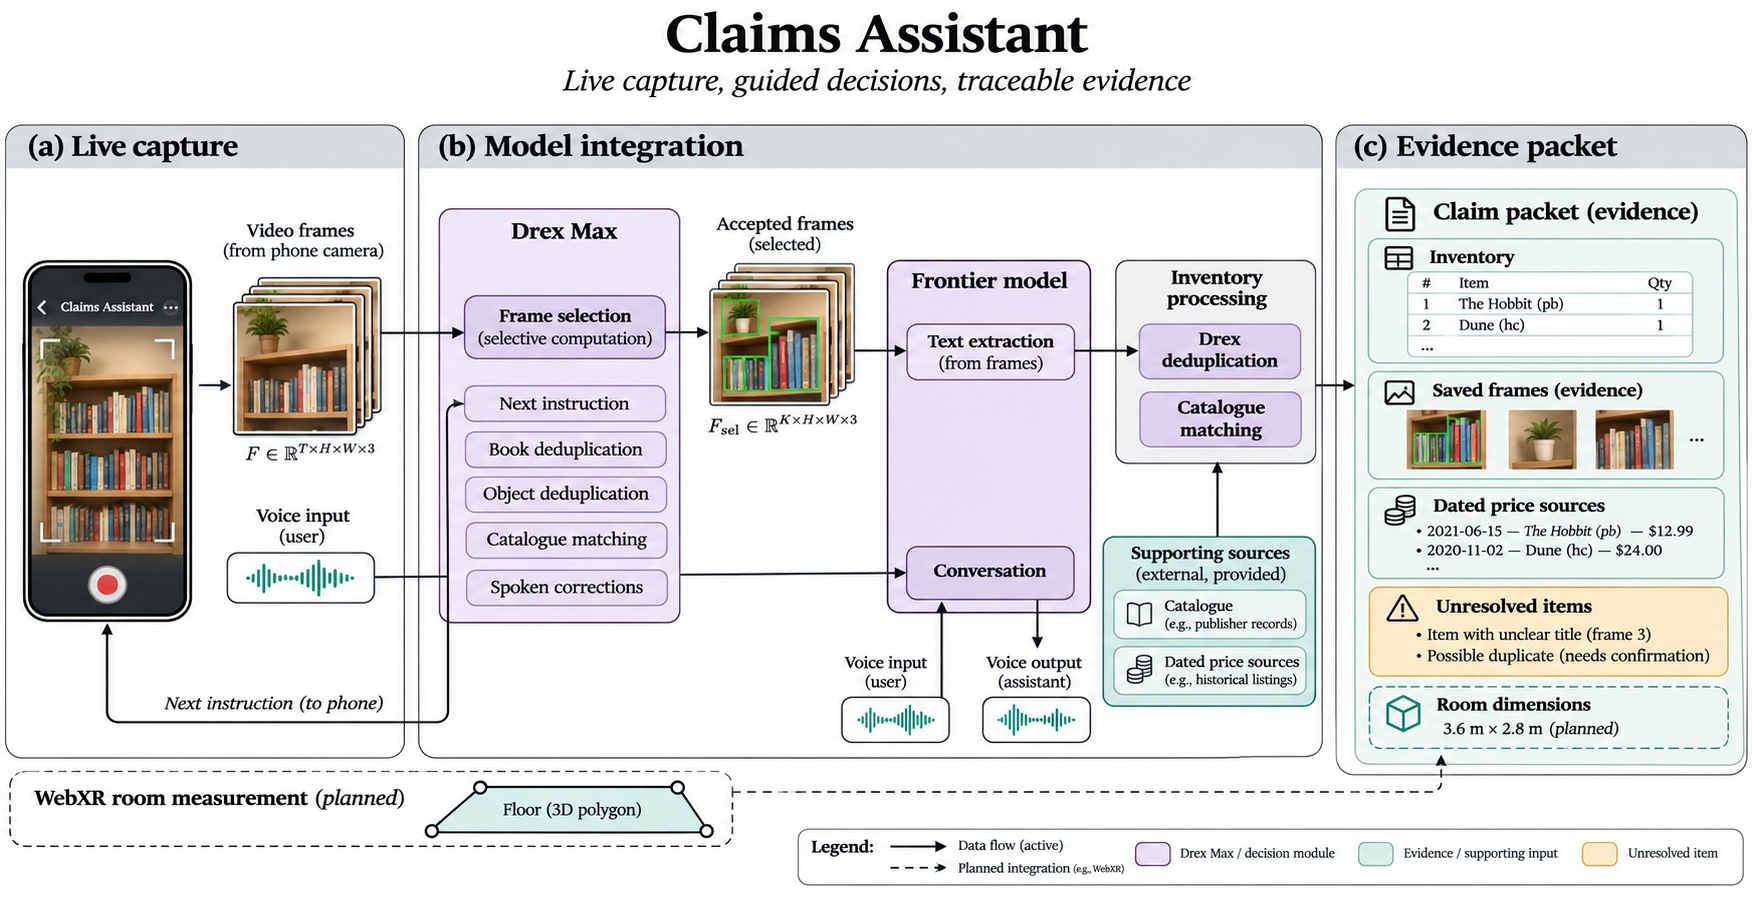
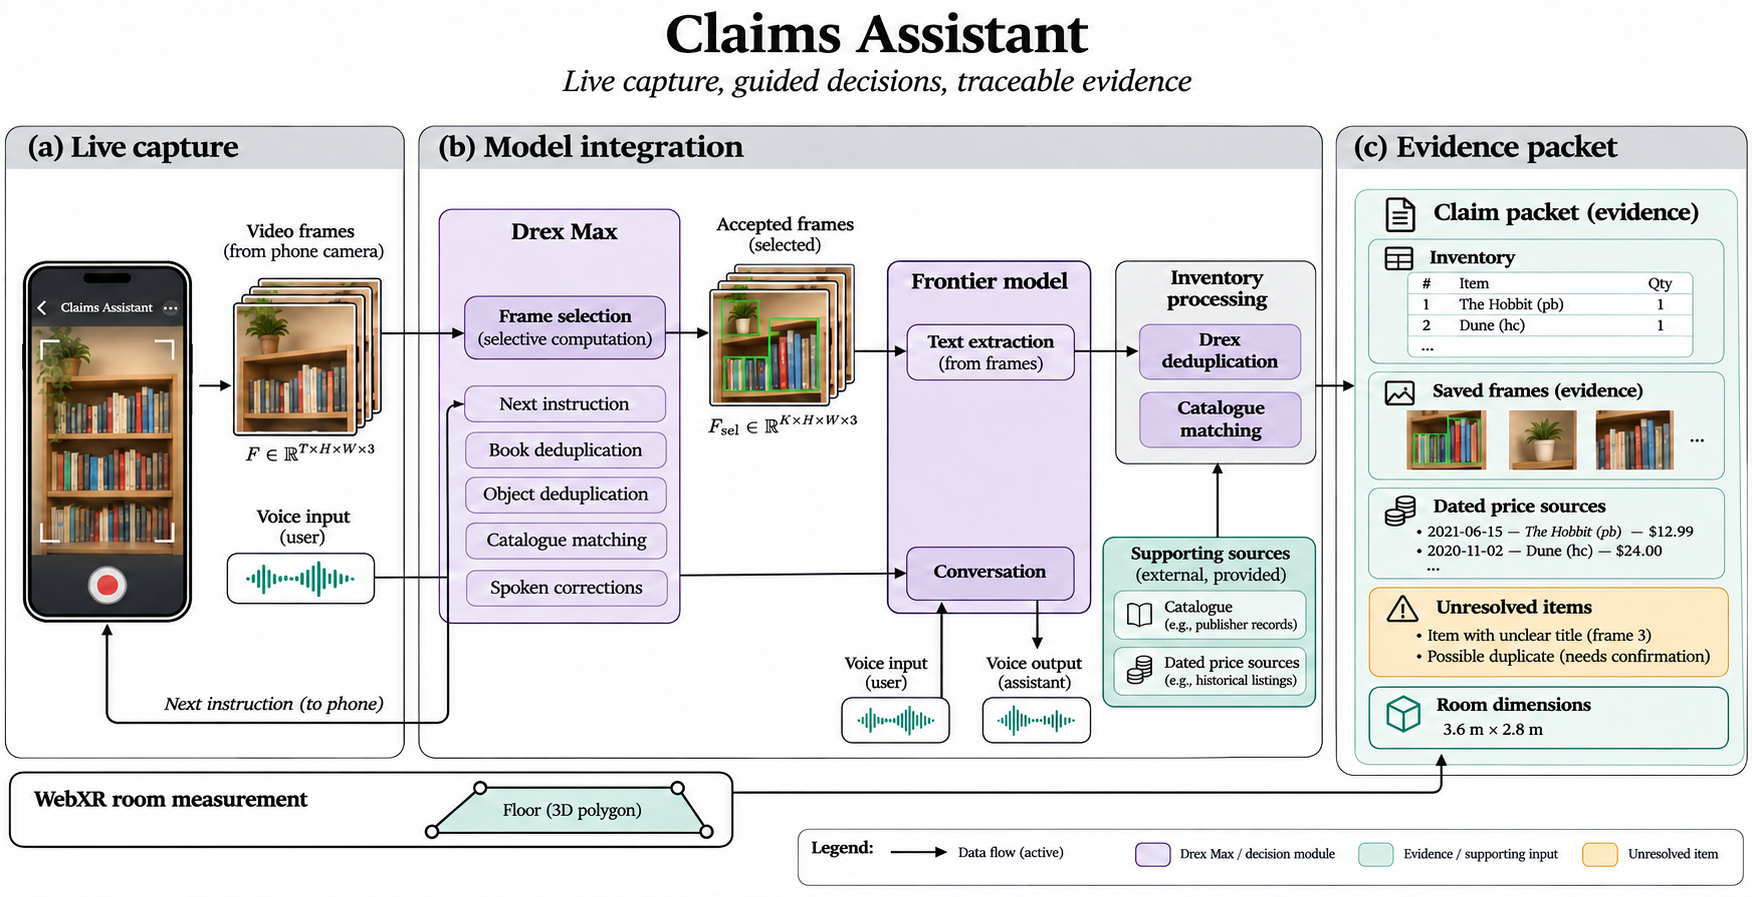
Take the updated architecture figure
The redrawn figure no longer marks WebXR room measurement or the room
dimensions as planned, which matches what the sweep does, so the line
saying otherwise comes out with it.

diff --git a/README.md b/README.md
@@ -51,9 +51,6 @@ Everything else — models, thresholds, cadences — is in [`config.yml`](config
 The vision model sits behind the gate: it is sent a frame only after Drex has admitted it, so
 it never receives a blurred shelf, a blank wall, or a book already recorded.
 
-Room measurement, which the figure marks as planned, now ships: the AR session's depth and
-camera pose give floor area, wall area, ceiling height and the wall area shelving covers.
-
 ---
 
 ## Drex is the decision layer
